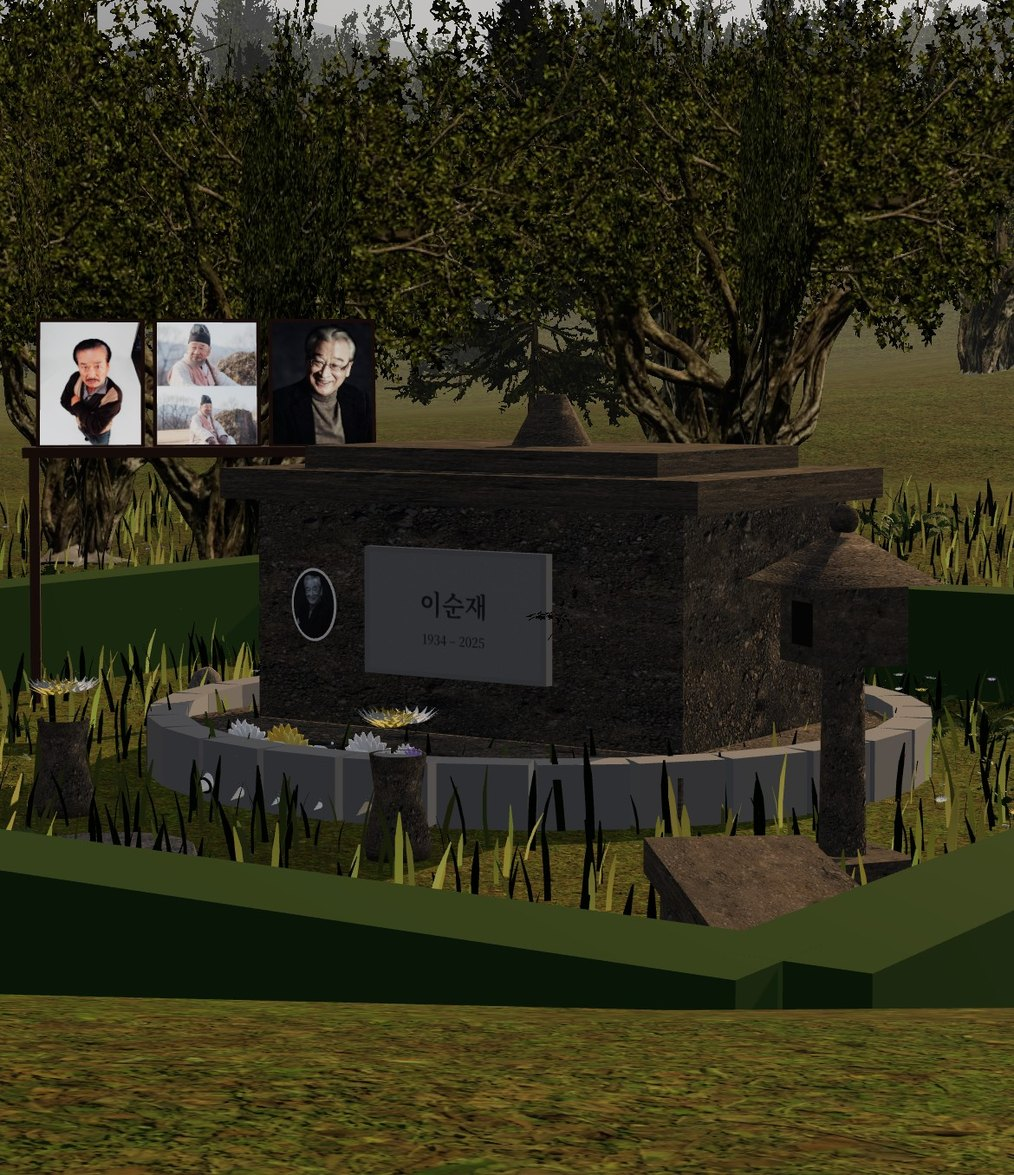
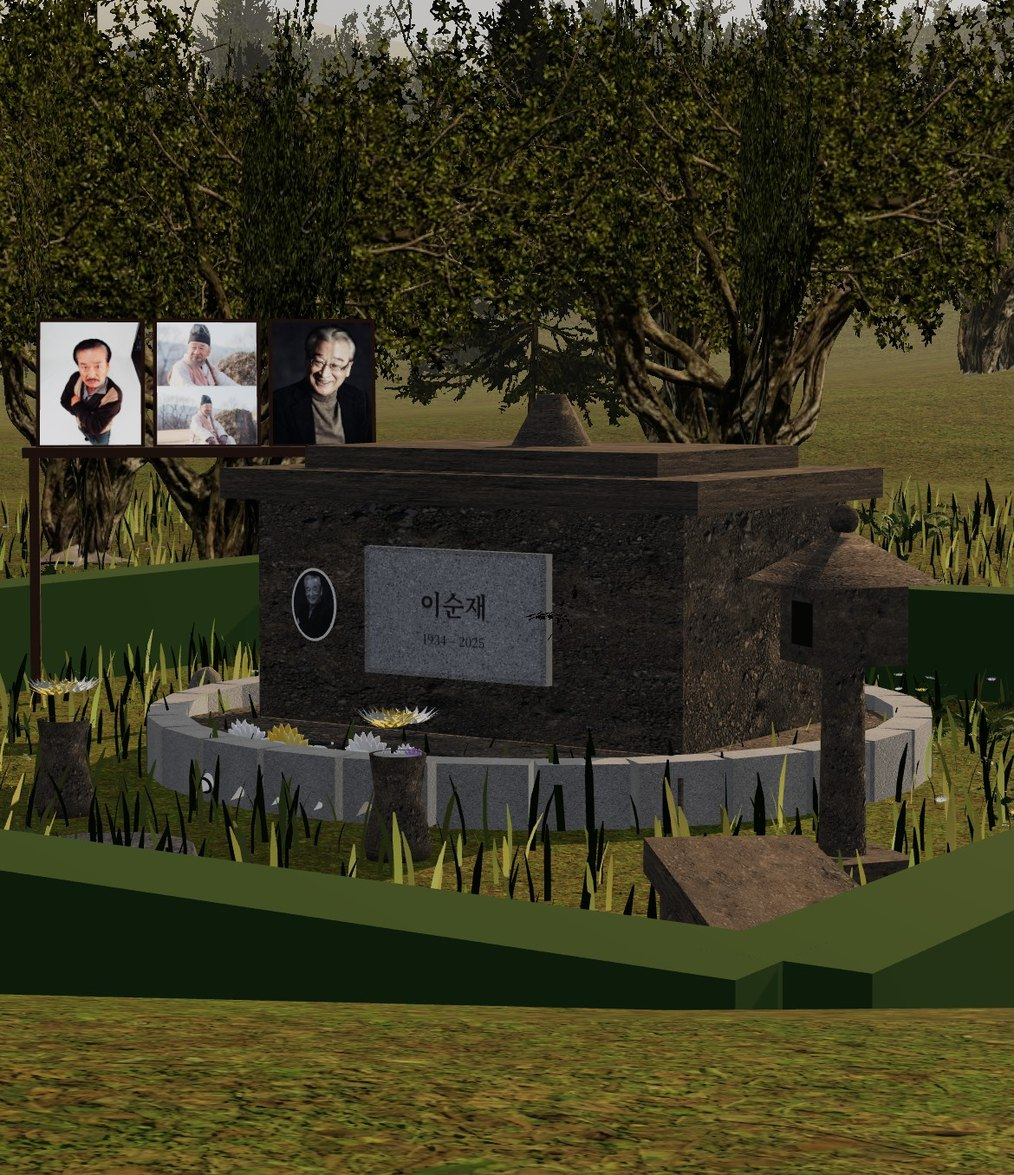
공개 추모관 장지 사진: 화강석 질감, 따뜻한 빛, 액자 자리
Claude-Session: https://claude.ai/code/session_01WvjGqiVXugAiAGwkNjewY5

diff --git a/index.html b/index.html
@@ -270,7 +270,7 @@ box.innerHTML = FIGS.map((f) => `
   <article class="fig" data-view="altar">
     <div class="shot">
       <img class="altar" src="img/fig/${f.code}-altar.jpg?v=3" alt="${f.name} 님 공개 분향소" loading="lazy" width="390" height="452">
-      <img class="grave" src="img/fig/${f.code}-grave.jpg?v=3" alt="${f.name} 님 공개 장지" loading="lazy" width="390" height="452">
+      <img class="grave" src="img/fig/${f.code}-grave.jpg?v=4" alt="${f.name} 님 공개 장지" loading="lazy" width="390" height="452">
       <div class="toggle" role="group" aria-label="${f.name} 님 화면 고르기">
         <button type="button" data-v="altar" aria-pressed="true">분향소</button>
         <button type="button" data-v="grave" aria-pressed="false">장지</button>
